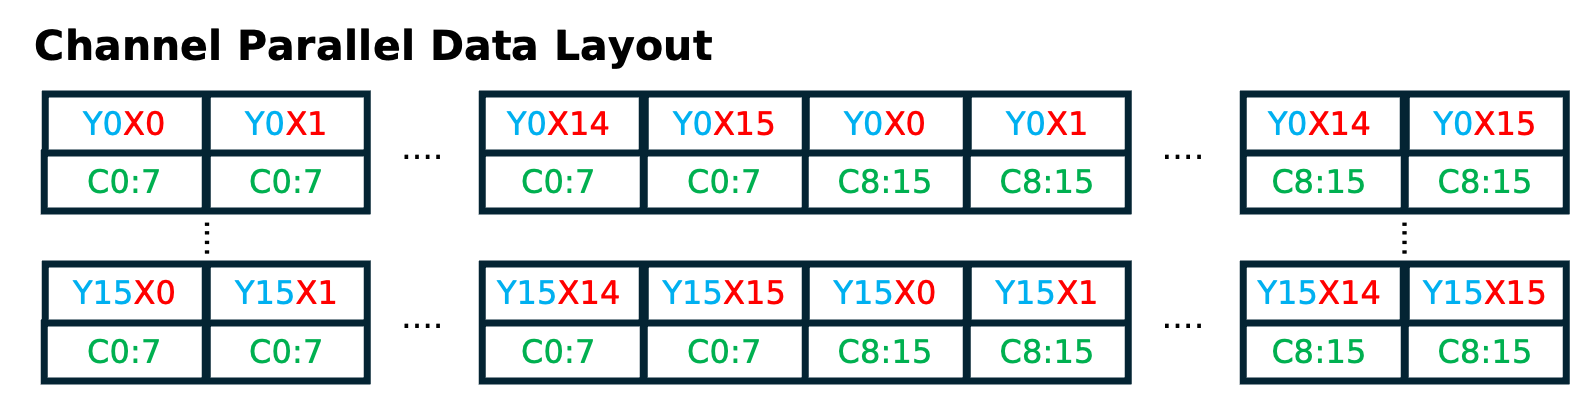
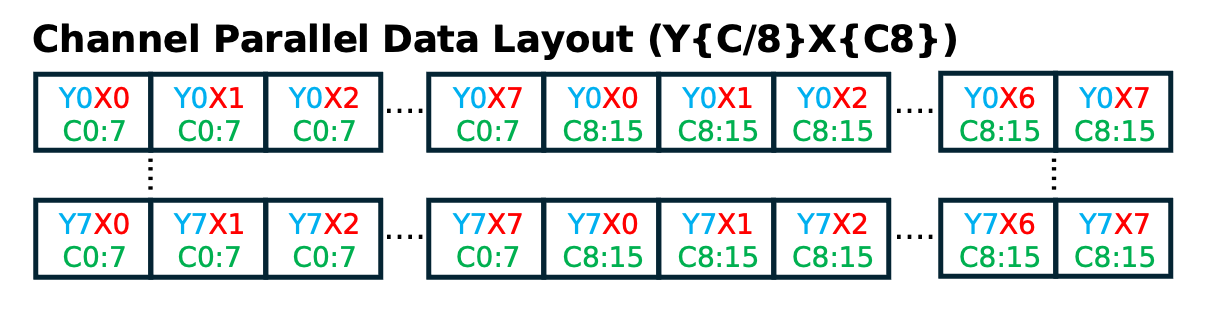
convolution documentation fixes

diff --git a/programming_examples/ml/conv2d/README.md b/programming_examples/ml/conv2d/README.md
@@ -10,23 +10,36 @@
 
 # <ins>Convolution 2D </ins>
 ## Introduction
-Convolution is a crucial part of various machine learning and computer vision tasks, such as image recognition, object detection, and image segmentation. This README provides instructions for implementing convolution on AI Engine. 
+Convolution is a crucial part of various machine learning and computer vision tasks, such as image recognition, object detection, and image segmentation. This README provides instructions for implementing convolution on AI Engine with 8-bit precision. 
 
-At its core, it is a mathematical operation that combines an input tensor and a filter to produce an output tensor. The input data is represented as a multi-dimensional matrix. The filter is also represented as a multi-dimensional matrix with filter height, width, input and output channels (the same number of channels as the input data). The filter is systematically applied to different regions of the input data. At each step, the filter is element-wise multiplied by the overlapping region of the input data. The element-wise products are summed up to produce a single value, which represents the result of the convolution operation for that region. This process is repeated for all possible regions of the input data, producing an output matrix called the feature map.
+At its core, it is a mathematical operation that combines an input tensor and a filter to produce an output tensor. The input tensor is a multi-dimensional matrix with input weight, height, and channel. The filter is also represented as a multi-dimensional matrix with filter height, width, input, and output channels (the same number of channels as the input tensor). The filter is systematically applied to different regions of the input data. At each step, the filter is element-wise multiplied by the overlapping region of the input tensor. The element-wise products are summed up to produce a single value, representing the result of the convolution operation for that region. This process is repeated for all possible regions of the input tensor, producing an output tensor called the feature map.
 
-The process of applying the filter to different regions of the input data is often visualized as a sliding window moving across the input data. The size of the sliding window corresponds to the size of the filter, and it moves with a certain stride (the number of pixels it moves at each step). The convolution operation consists of seven nested loops, iterating over the input height, input lenght, input channel, output channel, filter height, filter length, and the batch size, each loop corresponding to different aspect of the operation. This systematic process extracts features from the input tensor, yielding the output feature map and illustrating the computational intricacies of convolution. 
+The process of applying the filter to different regions of the input tensor is often visualized as a sliding window moving across the input data. The size of the sliding window corresponds to the size of the filter, and it moves with a certain stride (the number of pixels it moves at each step). The convolution operation consists of seven nested loops, iterating over the input height, input length, input channel, output channel, filter height, filter length, and batch size, each loop corresponding to a different aspect of the operation. This systematic process extracts features from the input tensor, yielding the output feature map and illustrating the computational intricacies of convolution. In this design, we vectorize a two-dimensional convolution with 1x1 filter size.
 
-## Acceleration Techniques
-1. Kernel Optimization: To optimize convolution operations on AIE, we vectorize the code using AIE vector intrinsics. We load 8 elements of the input channel into vector registers using vector load intrinsic. We apply the convolution operation on this loaded data, utilizing it for enhanced computational efficiency. We implement zero-padding to handle boundary conditions to ensure accurate convolution results, particularly at the edges of feature maps. This comprehensive approach optimizes convolution processing on AIE, facilitating efficient and accurate feature extraction in neural network applications. Input is a 4x8 matrix corresponding to 4 elements of a row and 8 input channels.
 
-2. Quantization: We use int8 precision for activation and weights. At int8 precision, AIE offers the highest compute density with 256 MAC/cycle. 
+## Source Files Overview
 
-3. Data Layout: Optimize activation and weight layout to enhance memory access patterns and enables effective utilization of AIE parallel processing units, ultimately improving the performance of 2D convolution operations. 
+```
+.
++-- act_layout.png      # Figure describing input/output data layout.
++-- aie2.py             # A Python script that defines the AIE array structural design using MLIR-AIE operations.
++-- Makefile            # Contains instructions for building and compiling software projects.
++-- README.md           # This file.
++-- run.lit             # For LLVM Integrated Tester (LIT) of the design.
++-- test.py             # Python code testbench for the design example.
+```
+
+## NPU Implementation
+1. Kernel Optimization: To optimize convolution operations on AIE, we vectorize the code using AIE vector intrinsics. We load 8 elements of the input channel into vector registers using vector load intrinsic. We perform the convolution operation using vector MAC/MUL on this loaded data. We implement zero-padding to handle boundary conditions to ensure accurate convolution results, particularly at the edges of feature maps. This comprehensive approach optimizes convolution processing on AIE, facilitating efficient and accurate feature extraction in neural network applications. Input is a 4x8 matrix corresponding to 4 elements of a row and 8 input channels.
+
+2. Quantization: We use `int8` precision for activation and weights. At `int8` precision, AIE offers the highest compute density with 256 MAC/cycle. 
+
+3. Data Layout: We optimize activation and weight layout to enhance memory access patterns and enable effective utilization of AIE parallel processing units, ultimately improving the performance of 2D convolution operations. 
 
 ## Data Layout
-We must ensure that the data layout is compatible with efficient SIMD processing and rearrange the input data into a format where contiguous elements represent consecutive X-dimension values for each channel. We adopt a channels-last memory ordering, denoted as Y{C/8}XC8, to exploit output channel parallelism by ensuring channels become the densest dimension. Operating on 8 elements simultaneously, we process 8 channels simultaneously with the same width. Subsequently, we traverse the entire width dimension, handling the remaining channels in batches of 8. This process continues row-wise, resulting in our final data layout pattern: NYCXC8. This optimized layout enhances memory access patterns and enables effective utilization of parallel processing units, ultimately improving the performance of 2D convolution operations. This transformation ensures that data can be efficiently loaded into SIMD registers and processed in parallel. 
+We must ensure that the data layout is compatible with efficient SIMD processing and rearrange the input data into a format where contiguous elements represent consecutive X-dimension values for each channel. We adopt a channels-last memory ordering, denoted as Y{C/8}X{C8}, to exploit output channel parallelism by ensuring channels become the densest dimension. Operating on 8 elements simultaneously, we process 8 channels simultaneously with the same width. Subsequently, we traverse the entire width dimension, handling the remaining channels in batches of 8. This process continues row-wise, resulting in our final data layout pattern: Y{C/8}X{C8}. This optimized layout enhances memory access patterns and enables effective utilization of parallel processing units, ultimately improving the performance of 2D convolution operations. This transformation ensures that data can be efficiently loaded into SIMD registers and processed in parallel. 
 
-The below figure shows our channle parallel data layout (Y{C/8}XC8) for a tensor dimension 16x16x16:
+The below figure shows our channel parallel data layout (Y{C/8}X{C8}) for a tensor dimension 8x8x16:
 
 <p align="center">
  <picture>
@@ -38,25 +51,27 @@ The below figure shows our channle parallel data layout (Y{C/8}XC8) for a tensor
 </p>
 
 
-In the Y{C/8}XC8 (with N=1) data layout, the data is organized in memory as follows:
+In the Y{C/8}X{C8} (with N=1) data layout, the data is organized in memory as follows:
 
-* Y: Represents the output feature map dimension.
-* C/8: Denotes the number of channels.
-* X: Represents the input feature map dimension.
-* C8: Indicates that 8 elements of the input channel are processed together.
+* C8:   Indicates that 8 elements of the input channel are processed together.
+* X:    Represents the input feature map dimension.
+* C/8:  Denotes the remaining number of channels.
+* Y:    Represents the output feature map dimension.
 
-{O/8}{I/8}YXI8O8 Weight Layout:
 
-We align the weight layout as specified: O/8, I/8, Y, X, I8, O8, to match the input tensor processing. We first load the weight tensor, organizing it to match this layout, where dimensions represent: output channels, input channels, kernel height, kernel width, input channel groups of 8, and output channel groups of 8. By aligning the weight layout in this manner, we enable seamless integration with the input data layout, maximizing parallelism and minimizing memory access overhead. 
+{O/8}{I/8}YX{I8}{O8} Weight Layout:
 
-In the {O/8}{I/8}YXI8O8 data layout, the data is organized in memory as follows:
+We align the weight layout as specified: O/8, I/8, Y, X, I8, O8, to match the input tensor processing. We first load the weight tensor and organize it to match this layout, where dimensions represent output channels, input channels, kernel height, kernel width, input channel groups of 8, and output channel groups of 8. By aligning the weight layout in this manner, we enable seamless integration with the input data layout, maximizing parallelism and minimizing memory access overhead. 
 
-* O/8: Denotes the number of output channels.
-* I/8: Denotes the number of input channels.
-* Y: Represents the kernel height.
-* X: Represents the kernel weight.
-* I8: Indicates that 8 elements of the input channel are processed together.
-* O8: Indicates that 8 elements of the output channel are processed together.
+In the {O/8}{I/8}YX{I8}{O8} data layout, the data is organized in memory as follows:
+
+* O8:   Indicates that 8 elements of the output channel are processed together.
+* I8:   Indicates that 8 elements of the input channel are processed together.
+* X:    Represents the kernel weight.
+* Y:    Represents the kernel height.
+* I/8:  Denotes the remaining number of input channels.
+* O/8:  Denotes the remaining number of output channels.
+
 
 ## Compilation
 To compile the design:

diff --git a/programming_examples/ml/bottleneck/README.md b/programming_examples/ml/bottleneck/README.md
@@ -10,7 +10,7 @@
 
 # <ins>Bottleneck Block</ins>
 ## Introduction
-The bottleneck block is a key component in deep neural network architectures like ResNet. It is designed to help address the challenge of training deep networks by reducing computational costs while maintaining or improving performance. This README provides an overview of the process and considerations for accelerating a single bottleneck block.
+The bottleneck block is a key component in deep neural network architectures like ResNet. It is designed to help address the challenge of training deep networks by reducing computational costs while maintaining or improving performance. This README provides an overview of the process and considerations for accelerating a bottleneck block on a single NPU column.
 
 
 ## Bottleneck Block Overview
@@ -36,35 +36,46 @@ The components and functionality of a standard bottleneck block:
  </h3>
 </p>
 
+## Source Files Overview
+
+```
+.
++-- aie2.py                     # A Python script that defines the AIE array structural design using MLIR-AIE operations.
++-- bottleneck_block.png        # Figure describing the layers in the bottleneck block after fusing ReLU and batch norm into the convolution layer.
++-- bottleneck_pipeline.png     # Figure describing our implementation bottleneck block on a single NPU Column.
++-- Makefile                    # Contains instructions for building and compiling software projects.
++-- README.md                   # This file.
++-- run.lit                     # For LLVM Integrated Tester (LIT) of the design.
++-- test.py                     # Python code testbench for the design example.
+```
+
 ## NPU Implementation
 
-In our bottleneck pipeline implementation, every adjacent ReLU operation is fused into the convolution operation using the approach described in [conv2d_fused_relu](../conv2d_fused_relu). Fusing adjacent convolution and batch norm layers is another inference-time optimization, which involves updating the weight and bias of the convolution layer. The remaining layers of the bottleneck block are mapped onto a single column of NPU with one Shim Tile (0,0) and one Mem Tile (0,1), along with four AIE computer tiles spanning from (0,2) to (0,5), as illustrated in the figure below.
+We map a bottleneck block on a single column of NPU in depth-first manner where the output of one convolutional operation on an AIE core is sent directly to another convolutional operation on a separate AIE core, all without the need to transfer intermediate results off-chip. 
+In our bottleneck pipeline implementation, every adjacent ReLU operation is fused into the convolution operation using the approach described in [conv2d_fused_relu](../conv2d_fused_relu). Fusing adjacent convolution and batch norm layers is another inference-time optimization, which involves updating the weight and bias of the convolution layer. The remaining layers of the bottleneck block are mapped onto a single column of NPU with one `Shim Tile (0,0)` and one `Mem Tile (0,1)`, along with four AIE computer tiles spanning from (0,2) to (0,5), as illustrated in the figure below.
 
 <p align="center">
- <picture>
- <source media="(prefers-color-scheme: light)" srcset="bottleneck_pipeline.png">
- <img alt="block" src="bottleneck_pipeline.png" >
-</picture>
- <h3 align="center">Depth-first implementation of bottleneck block pipeline on a single column of NPU.
+  <img
+    src="bottleneck_pipeline.png">
+    <h3 align="center"> Depth-first implementation of bottleneck block pipeline on a single column of NPU. 
  </h3> 
 </p>
-The data movement within this pipeline is orchestrated using the ObjectFifo (OF) primitive. Initially, input activation is brought into the array via the `Shim Tile (0,0)`. We broadcast the data to both `AIE (0,2)` and `AIE (0,4)` to perform the very first convolution and skip addition operation in the bottleneck block, respectively. Since tile (0,4) must await additional data from other kernels before proceeding with its execution, buffering the data for tile (0,4) within the Mem tile is imperative to prevent any stalls in the broadcast process. Due to the data's size, direct buffering in the smaller L1 memory module of tile (0,5) is impractical. Therefore, we require two OFs: one for broadcasting to tile (0,2) and the Mem tile and another for data movement between the Mem tile and tile (0,5). These two OFs are interconnected to indicate that data from the first OF should be implicitly copied to the second OF through the Mem tile's DMA.
 
-Starting from the tile (0,2), data is processed by each compute tile, with the intermediate activations being forwarded to the subsequent tile. AIE (0,2) handles 1x1 convolution with fused ReLU operation. Based on our hand analysis, we partition the 3x3 convolution across two cores to balance computation and accommodate weight distribution across two cores effectively. The resulting feature map from the 1x1 convolution is broadcasted to AIE (0,3) and AIE (0,5) to ensure all required input channels are available for generating output feature maps in the subsequent 3x3 convolution. We split the output feature map processing across AIE (0,3) and AIE (0,5), with each core computing half of the total channels. The outputs from AIE (0,3) and AIE (0,5) are then merged in AIE (0,4) to perform the final 1x1 convolution. This final convolution operation also integrates skip addition, utilizing the initial input and the output of the 1x1 convolution. Following this, the final ReLU activation is applied. Finally, the output is transmitted from the tile (0,4) back to the output via the Shim tile.
+The data movement within this pipeline is orchestrated using the ObjectFifo (OF) primitive. Initially, input activation is brought into the array via the `Shim Tile (0,0)`. We broadcast the data to both `AIE (0,2)` and `AIE (0,4)` via `Mem Tile (0,1)`  to perform the very first convolution and skip addition operation in the bottleneck block, respectively. Since  `AIE (0,4)` must await additional data from other kernels before proceeding with its execution, buffering the data for tile (0,4) within the `Mem Tile (0,1)` is imperative to prevent any stalls in the broadcast process. Due to the data's size, direct buffering in the smaller L1 memory module of `AIE (0,4)` is impractical. Therefore, we require two OFs: one for broadcasting to tile (0,2) and the Mem tile and another for data movement between the Mem tile and tile (0,4). These two OFs are interconnected to indicate that data from the first OF should be implicitly copied to the second OF through the Mem tile's DMA.
+
+Starting from the `AIE (0,2)`, data is processed by each compute tile, with the intermediate activations being forwarded to the subsequent tile. `AIE (0,2)` handles 1x1 convolution with fused ReLU operation. Based on our hand analysis, we partition the 3x3 convolution across two cores, `AIE (0,3)` and `AIE (0,5)`, to balance computation and accommodate weight distribution across two cores effectively. Therefore, the feature map from the 1x1 convolution is broadcasted to `AIE (0,3)` and `AIE (0,5)` to ensure all required input channels are available for generating output feature maps in the subsequent 3x3 convolution. We split the output feature map processing across these cores, with each core computing half of the total output channels. The outputs from `AIE (0,3)` and `AIE (0,5)` are then merged in `AIE (0,4)` to perform the final 1x1 convolution. This final convolution operation also integrates skip addition, utilizing the initial input to the bottleneck block and the output of the 1x1 convolution. The final ReLU activation is applied to obtain the final output feature map. This output feature map is transmitted from the `AIE (0,4)` back to the output via the `Shim Tile (0,0)`. Although not shown in the figure, weights are transferred separately using a `Shim Tile (0,0)` channel into `Mem Tile (0,1)`, which distributes them across appropriate AIE cores in parallel, leveraging the large number of MemTile channels.
 
 We use the following architectural techniques to implement our bottleneck pipeline:
 
 1. Depth-First Implementation: Spatial architectures provide coarse-grained flexibility that allows for tailoring of the data flow to optimize data movement. By tailoring the dataflow, we implement a depth-first schedule for a bottleneck block where the output of one convolutional operation on an AIE core is sent directly to another convolutional operation on a separate AIE core, all without the need to transfer intermediate results off-chip. This approach effectively minimizes the memory footprint associated with intermediate data, mitigating the overhead of costly off-chip accesses and increasing the overall performance.
 
-2. Data Layout: Optimize activation and weight layout to enhance memory access patterns and enable effective utilization of AIE parallel processing units, ultimately improving the performance of 2D convolution operations. 
+2. Data Layout: Optimize activation and weight layout to enhance memory access patterns and enable effective utilization of AIE parallel processing units, ultimately improving the performance of 2D convolution operations. Please refer to our [conv2d](../conv2d) design for details on the data layout. 
 
-3. Kernel Optimization: To optimize convolution operations on AIE, we vectorize the code using AIE vector intrinsics. We load 8 elements of the input channel into vector registers using vector load intrinsic. We apply the convolution operation on this loaded data, utilizing it for enhanced computational efficiency. We implement zero-padding to handle boundary conditions and ensure accurate convolution results, particularly at the edges of feature maps. This comprehensive approach optimizes convolution processing on AIE, facilitating efficient and accurate feature extraction in neural network applications. Input is a 4x8 matrix corresponding to 4 elements of a row and 8 input channels.
+3. Kernel Optimization: Please refer to our [conv2d](../conv2d) design for details on vectorizing convolution 2D.
 
 4. Quantization: We use int8 precision for activation and weights. At int8 precision, AIE offers the highest compute density with 256 MAC/cycle. 
 
-5. Layer Fused: Initially, we employ AIE's SRS capabilities to fuse ReLU directly into the convolution operation. This integration optimizes performance by eliminating separate ReLU computations, streamlining the convolution process.
-
-Another inference-time optimization is merging BatchNorm directly into the convolution weights. This strategy reduces redundant operations, ensuring more streamlined processing and improved overall performance.
+5. Layer Fused: Initially, we employ AIE's SRS capabilities to fuse ReLU directly into the convolution operation. This integration optimizes performance by eliminating separate ReLU computations, streamlining the convolution process. Please refer to our [conv2d_fused_relu](../conv2d_fused_relu) design for details on fusing ReLU into the convolution layer.
 
 ## Compilation
 To compile the design:

diff --git a/programming_examples/ml/resnet/README.md b/programming_examples/ml/resnet/README.md
@@ -8,16 +8,13 @@
 // 
 //===----------------------------------------------------------------------===//-->
 
-# <ins>ResNet with Offloaded Conv2_x Bottleneck Blocks</ins>
+# <ins>ResNet with Offloaded Conv2_x Layers</ins>
 
 ## Introduction
-ResNet [[1]](#1) is a convolutional neural network architecture that has gained significant popularity for various computer vision tasks, including image classification, object detection, and image segmentation. It is renowned for its depth and efficiency in training very deep networks.
-
-This README focuses on a specific optimization technique applied to ResNet, specifically targeting the offloading of the conv2_x part of the bottleneck blocks. By offloading computations to dedicated hardware accelerators or specialized processors, we aim to improve the overall efficiency and speed of the network, especially when deploying it on resource-constrained devices or in scenarios where real-time processing is critical.
-
+ResNet [[1]](#1) is a convolutional neural network architecture that has gained significant popularity for various computer vision tasks, including image classification, object detection, and image segmentation. It is renowned for its depth and efficiency in training very deep networks. This README focuses on our implementation of the conv2_x layers of the ResNet architecture using three columns of NPU. 
 
 ## ResNet Architecture Overview
-ResNet consists of several key components:
+ResNet consists of the following key components:
 
 1. Input Layer: This layer accepts input image data with dimensions typically set to 224x224x3 (width, height, and RGB channels).
 2. Convolutional Layers: The initial layers perform convolution operations to extract basic features from the input image.
@@ -28,29 +25,41 @@ ResNet consists of several key components:
 4. Pooling Layers: Max pooling layers reduce the spatial dimensions of the feature maps.
 5. Fully Connected Layer: Produces the final output predictions, typically followed by a softmax activation for classification tasks.
 
+## Source Files Overview
+
+```
+.
++-- layers_conv2_x                  # Implementation of ResNet conv2_x layers on NPU
+|   +-- aie2.py                     # A Python script that defines the AIE array structural design using MLIR-AIE operations.
+|   +-- Makefile                    # Contains instructions for building and compiling software projects.
+|   +-- resnet_conv2x_pipeline.png  # Figure describing our implementation of conv2_x layers on NPU.
+|   +-- run.lit                     # For LLVM Integrated Tester (LIT) of the design.
+|   +-- test.py                     # Python code testbench for the design example.
++-- README.md                       # This file.
+
+```
 
 ## NPU Implementation
 The conv2_x stage of ResNet comprises a series of bottleneck blocks, each containing convolutional, batch norm, and ReLU layers responsible for learning more complex features from the input data. By offloading the computations within these blocks to AI Engine, we aim to:
 
 * Reduce the computational burden on the main processing unit (e.g., CPU or GPU).
-* Improve overall inference speed and efficiency, especially in scenarios where real-time processing is crucial.
-* Enable deployment on resource-constrained devices with limited computational resources.
+* Improve overall inference speed and efficiency.
 
-We adopt the [bottleneck design](../../bottleneck) design approach to execute a depth-first implementation of conv2_x layers, seamlessly connecting the output of one bottleneck block on an NPU column to another on a separate column, all without the necessity of transferring intermediate results off-chip. Compared to [bottleneck design](../../bottleneck) design, the initial bottleneck block requires an additional 1x1 convolution on the AIE (0,4) tile to handle channel mismatch for the skip addition between the input from the skip path and the input from the non-skip path. This mismatch arises because the initial input activation transferred from the skip path possesses fewer input channels compared to the output on the non-skip path. To overcome this issue, an additional 1x1 convolution is introduced in the skip path. After the initial processing in the first bottleneck block, the output is relayed to the second bottleneck block on a separate NPU column. The output activation is broadcasted to both `AIE (1,5)` and `AIE (1,3)` via `Mem Tile (1,1)`. The second bottleneck's processing proceeds as described in [bottleneck design](../../bottleneck) design. Similarly, the subsequent bottleneck block requires the output from the second bottleneck, avoiding any need to send intermediate activations off-chip. Upon the completion of processing in the third bottleneck block, the final output is transmitted from tile `AIE (2,4)` back to the output via `Shim tile (2,0)`, completing the seamless flow of computation within the NPU architecture.
-
+The below figures shows our implementation of the conv2_x layers of the ResNet architecture using three columns of NPU.
 <p align="center">
  <picture>
  <source media="(prefers-color-scheme: light)" srcset="./layers_conv2_x/resnet_conv2x_pipeline.png">
  <img alt="block" src="./layers_conv2_x/resnet_conv2x_pipeline.png">
 </picture>
- <h3 align="center">ResNet conv2_x bottleneck blocks are stacked in depth-first fashion to avoid unnecessary off-chip data movement.
+ <h3 align="center">ResNet conv2_x stage's bottleneck blocks are stacked depth-first to avoid unnecessary off-chip data movement.
  </h3>
 </p>
 
+We adopt the [bottleneck design](../../bottleneck) approach to execute a depth-first implementation of conv2_x layers, seamlessly connecting the output of one bottleneck block on an NPU column to another on a separate column, all without the necessity of transferring intermediate results off-chip. Compared to [bottleneck design](../../bottleneck), the first bottleneck block in the conv2_x stage requires an additional 1x1 convolution on the `AIE (0,4)` tile to handle channel mismatch for the skip addition between the input from the skip path and the input from the non-skip path. This mismatch arises because the initial input activation transferred from the skip path possesses fewer input channels compared to the output on the non-skip path. To overcome this issue, an additional 1x1 convolution is introduced in the skip path. After the initial processing in the first bottleneck block, the output is sent directly to the second bottleneck block on a separate NPU column. The output activation is broadcasted to both `AIE (1,5)` and `AIE (1,3)` via `Mem Tile (1,1)`. The second bottleneck's processing proceeds as described in [bottleneck design](../../bottleneck). 
 
-## Usage and Deployment
-To leverage the optimized ResNet with offloaded conv2_x bottleneck blocks:
-* [IRON Programming](https://github.com/Xilinx/mlir-aie/tree/gagan_asplos_resnet/programming_examples/ml/resnet/layers_conv2_x): Demonstrates the IRON flow for offloading conv2_x to AIE.
+Similarly, the subsequent bottleneck block requires the output from the second bottleneck, avoiding any need to send intermediate activations off-chip. Upon processing in the third bottleneck block, the final output is transmitted from tile `AIE (2,4)` back to the output via `Shim tile (2,0)`, completing the seamless flow of computation within the NPU architecture. Thus, our depth-first implementation avoids any unnecessary off-chip data movement for intermediate tensors.
+
+
 
 
 ## Compilation

diff --git a/programming_examples/ml/conv2d_fused_relu/README.md b/programming_examples/ml/conv2d_fused_relu/README.md
@@ -12,22 +12,34 @@
 
 ## Introduction
 
-In [conv2d](../conv2d), we describe how to implement a convolution kernel on AIE. While [relu](../relu) describes the implementation of the ReLU activation function on AIE. This README provides instructions for fusing convolution with the ReLU activation function on AI Engine (AIE). 
+In [conv2d](../conv2d), we describe how to implement a two-dimensional convolution kernel on AIE. While [relu](../relu) describes the implementation of the Rectified Linear Unit (ReLU) activation function on AIE. This README provides instructions for fusing convolution with the ReLU activation function on AI Engine (AIE). 
+
+
+## Source Files Overview
+
+```
+.
++-- aie2.py             # A Python script that defines the AIE array structural design using MLIR-AIE operations.
++-- Makefile            # Contains instructions for building and compiling software projects.
++-- README.md           # This file.
++-- run.lit             # For LLVM Integrated Tester (LIT) of the design.
++-- test.py             # Python code testbench for the design example.
+```
 
 ## Fusing ReLU
-Fusing ReLU into the convolution operation can optimize the performance by reducing unnecessary data movement, leading to lower external memory bandwidth requirements and computational overhead. The ReLU activation function introduces non-linearity by setting negative values to zero and leaving positive values unchanged. We utilize the SRS capability of AIE to efficiently compute ReLU activation while the data is in the accumulation registers.  Such an implementation completely eliminates any need for data movement by fusing at the vector register level.
+Fusing ReLU into the convolution operation can optimize the performance by reducing unnecessary data movement, leading to lower external memory bandwidth requirements and computational overhead. The ReLU activation function introduces non-linearity by setting negative values to zero and leaving positive values unchanged. For fixed-point arithmetic, we can utilize the Shift-Round-Saturate (SRS) capability of AIE to apply an appropriate transformation involving shifting out lower-order bits, rounding, and saturation using the SRS family of intrinsics. Using SRS intrinsics, we can efficiently implement ReLU activation while the data is in the accumulation registers. Such an implementation completely eliminates any need for data movement by fusing at the vector register level.
 
-After performing the convolution operation, we use `aie::set_rounding()` and `aie::set_saturation()` to set the rounding and saturation modes for the computed results in the accumulator. Setting round mode `postitive_inf` rounds halfway towards positive infinity while setting saturation to `aie::saturation_mode::saturate` saturation rounds an uint8 range (0, 255).  
+After performing the convolution operation, we use `aie::set_rounding()` and `aie::set_saturation()` to set the rounding and saturation modes for the computed results in the accumulator. Setting round mode `postitive_inf` rounds halfway towards positive infinity while setting saturation to `aie::saturation_mode::saturate` saturation rounds an uint8 range (0, 255). 
 
 
 ```
-::aie::set_saturation(
- aie::saturation_mode::saturate); // Needed to saturate properly to uint8
 ::aie::set_rounding(
- aie::rounding_mode::positive_inf); // Needed to saturate properly to uint8
+ aie::rounding_mode::positive_inf);     # Needed to rounding properly to uint8
+::aie::set_saturation(
+ aie::saturation_mode::saturate);       # Needed to saturate properly to uint8
 ```
 
-The output data is generated in Y{C/8}XC8 layout. Please refer to our [conv2d](../conv2d) design for details on the data layout. 
+The output data is generated in Y{C/8}X{C8} layout. Please refer to our [conv2d](../conv2d) design for details on the data layout. 
 
 ### Benefits of Fusing Convolutiona and ReLU :
 
@@ -38,7 +50,7 @@ Fusing ReLU into the convolution operation eliminates unnecessary memory accesse
 Fusing ReLU reduces the number of instructions executed per element, resulting in improved computational efficiency and overall performance of the convolution operation.
 
 3. Enhanced Resource Utilization:
-Combining convolution and ReLU operations allows computational resources such as CPU cores or SIMD units to be utilized more efficiently, maximizing throughput and achieving better resource utilization.
+Combining convolution and ReLU operations allows computational resources to be utilized more efficiently, maximizing throughput and achieving better resource utilization.
 
 
 ## Compilation

diff --git a/programming_guide/section-6/README.md b/programming_guide/section-6/README.md
@@ -31,7 +31,7 @@ There are a number of example designs available [here](../../programming_example
 
 ## Exercises
 
-1. In [bottleneck](../../programming_examples/ml/bottleneck/) design following a dataflow approach, how many elements does the 3x3 convolution operation require to proceed with its computation? <img src="../../mlir_tutorials/images/answer1.jpg" title="3. This allows for the necessary neighborhood information required by the convolutional kernel to be available for processing." height=25>
+1. In [bottleneck](../../programming_examples/ml/bottleneck/) design following a dataflow approach, how many rows of input data does the 3x3 convolution operation require to proceed with its computation? <img src="../../mlir_tutorials/images/answer1.jpg" title="3. This allows for the necessary neighborhood information required by the convolutional kernel to be available for processing." height=25>
 2. Suppose you have a bottleneck block with input dimensions of 32x32x256. After passing through the 1x1 convolutional layer, the output dimensions become 32x32x64. What would be the output dimensions after the subsequent 3x3 convolutional layer, assuming a stride of 1 and no padding and output channel of 64? <img src="../../mlir_tutorials/images/answer1.jpg" title="30×30×64. Without padding, the spatial dimensions would shrink by two pixels in each dimension due to the 3x3 convolution operation." height=25>
 
 -----
